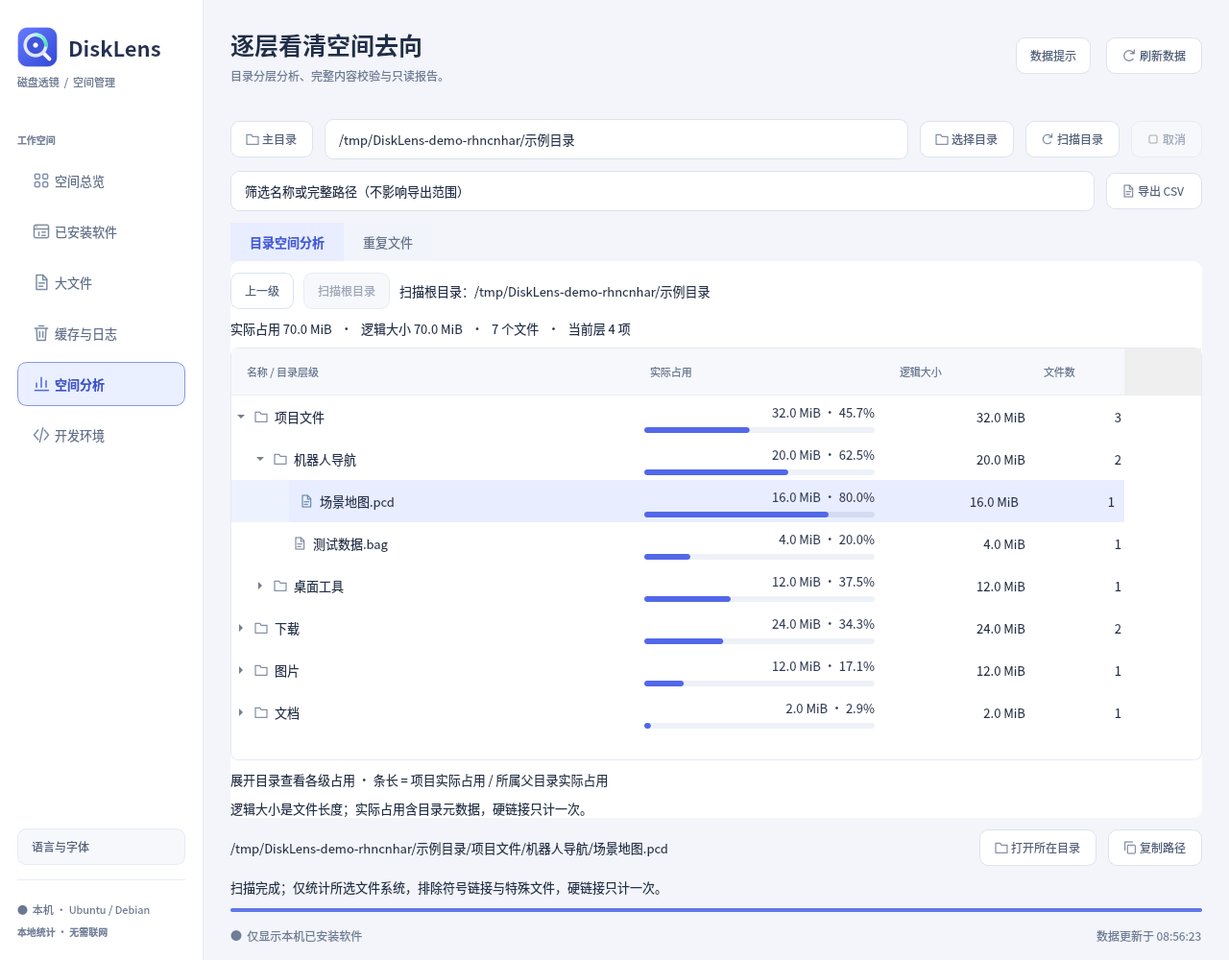
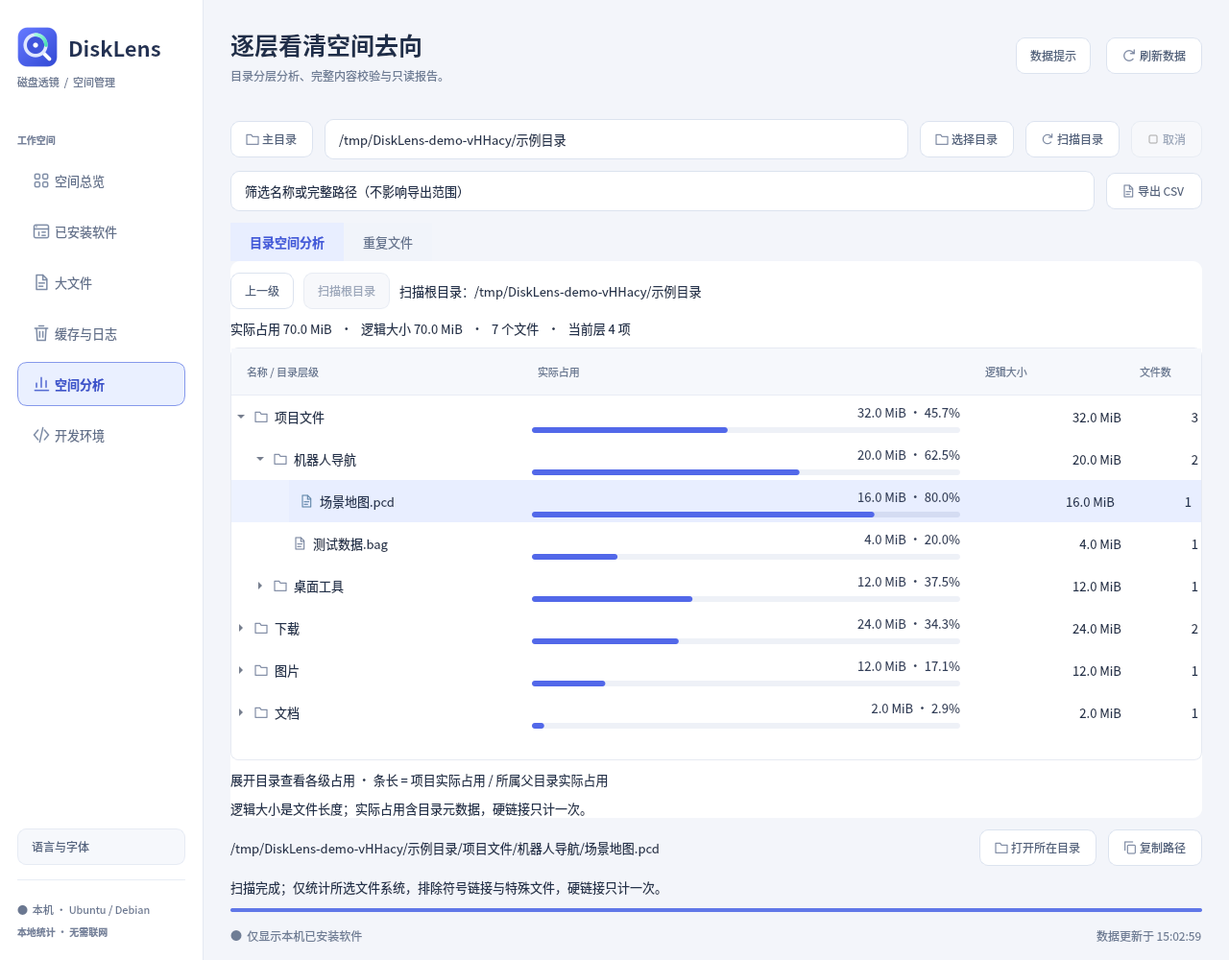
Release 1.5.1: fill space explorer width and fix Qt raster validation

diff --git a/src/explorerpage.cpp b/src/explorerpage.cpp
@@ -29,6 +29,7 @@
 #include <QTabWidget>
 #include <QTabBar>
 #include <QTemporaryFile>
+#include <QTimer>
 #include <QTreeWidget>
 #include <QUrl>
 #include <QVBoxLayout>
@@ -47,6 +48,80 @@ constexpr int populatedRole = Qt::UserRole + 2;
 constexpr int allocationShareRole = Qt::UserRole + 3;
 constexpr int allocatedBytesRole = Qt::UserRole + 4;
 constexpr int parentAllocatedBytesRole = Qt::UserRole + 5;
+
+class DirectoryTree final : public QTreeWidget {
+public:
+    DirectoryTree()
+    {
+        viewport()->installEventFilter(this);
+        connect(header(), &QHeaderView::sectionResized, this, [this] {
+            if (m_hasFitted && !m_adjusting && isVisible()) m_manuallySized = true;
+        });
+    }
+
+protected:
+    void showEvent(QShowEvent *event) override
+    {
+        QTreeWidget::showEvent(event);
+        fitColumns();
+    }
+
+    bool eventFilter(QObject *object, QEvent *event) override
+    {
+        if (object == viewport() && event->type() == QEvent::Resize && !m_pending) {
+            m_pending = true;
+            QTimer::singleShot(0, this, [this] { m_pending = false; fitColumns(); });
+        }
+        return QTreeWidget::eventFilter(object, event);
+    }
+
+private:
+    void fitColumns()
+    {
+        if (columnCount() != 4 || !isVisible()) return;
+        m_adjusting = true;
+        const int available = viewport()->width();
+        if (m_manuallySized) {
+            int occupied = 0;
+            for (int column = 0; column < 4; ++column) occupied += columnWidth(column);
+            // Retain manually widened hierarchy columns and horizontal scroll;
+            // give any unused room to the allocation bars.
+            if (occupied < available) setColumnWidth(1, columnWidth(1) + available - occupied);
+        } else {
+            const int minimum[] = {
+                qMax(260, fontMetrics().horizontalAdvance(QStringLiteral("directory-name-012345")) + 60),
+                qMax(220, fontMetrics().horizontalAdvance(QStringLiteral("999.9 GiB · 100.0%")) + 24),
+                qMax(130, header()->fontMetrics().horizontalAdvance(headerItem()->text(2)) + 24),
+                qMax(80, header()->fontMetrics().horizontalAdvance(headerItem()->text(3)) + 24)};
+            const double shares[] = {0.30, 0.46, 0.16, 0.08};
+            int widths[4], occupied = 0, minimumTotal = 0;
+            for (int column = 0; column < 4; ++column) {
+                widths[column] = qMax(minimum[column], int(available * shares[column]));
+                occupied += widths[column];
+                minimumTotal += minimum[column];
+            }
+            if (available < minimumTotal) {
+                for (int column = 0; column < 4; ++column) widths[column] = minimum[column];
+            } else if (occupied > available) {
+                // A clamped name/count column must not force scrolling when
+                // the other columns still have room above their minima.
+                int excess = occupied - available;
+                for (int column : {1, 0, 2, 3}) {
+                    const int reduction = qMin(excess, widths[column] - minimum[column]);
+                    widths[column] -= reduction; excess -= reduction;
+                }
+            } else if (occupied < available) widths[1] += available - occupied;
+            for (int column = 0; column < 4; ++column) setColumnWidth(column, widths[column]);
+        }
+        m_adjusting = false;
+        m_hasFitted = true;
+    }
+
+    bool m_adjusting = false;
+    bool m_manuallySized = false;
+    bool m_pending = false;
+    bool m_hasFitted = false;
+};
 
 // Paint in the view rather than creating a widget for each scanned entry. The
 // tree still owns selection, accessibility, scrolling and lazy child expansion.
@@ -361,16 +436,13 @@ void ExplorerPage::createUi()
     navigation->addWidget(m_up); navigation->addWidget(m_home); navigation->addWidget(m_breadcrumb, 1);
     directoryLayout->addLayout(navigation);
     m_metrics = label(dlTr("尚未扫描"), "explorerMetrics"); m_metrics->setWordWrap(true); directoryLayout->addWidget(m_metrics);
-    m_tree = new QTreeWidget; m_tree->setObjectName(QStringLiteral("explorerTree"));
+    m_tree = new DirectoryTree; m_tree->setObjectName(QStringLiteral("explorerTree"));
     m_tree->setHeaderLabels({dlTr("名称 / 目录层级"), dlTr("实际占用"), dlTr("逻辑大小"), dlTr("文件数")});
     styleTree(m_tree);
-    // Keep the hierarchy resizable: deep indentation may need a wider name
-    // column than the viewport can provide, using horizontal scrolling.
+    // Responsive widths fill the workspace; every column stays resizable for
+    // deep hierarchy names or unusually long totals.
     m_tree->header()->setStretchLastSection(false);
     m_tree->header()->setSectionResizeMode(QHeaderView::Interactive);
-    m_tree->setColumnWidth(0, 420);
-    m_tree->setColumnWidth(1, 260);
-    m_tree->setColumnWidth(2, 150); m_tree->setColumnWidth(3, 100);
     m_tree->setItemDelegateForColumn(1, new AllocationDelegate(m_tree));
     m_tree->setAccessibleName(dlTr("目录层级与实际占用"));
     m_tree->setToolTip(dlTr("展开目录即可比较各级实际占用；占用条表示项目占父目录的比例，搜索不改变比例。双击目录可进入；未完成统计的项目不显示精确比例。"));

diff --git a/tests/explorerpage_test.cpp b/tests/explorerpage_test.cpp
@@ -86,6 +86,7 @@ class ExplorerPageTest : public QObject {
 private slots:
     void directoryNavigationAndInlineBars();
     void expandedRowsUseParentAllocationAndSurviveFiltering();
+    void columnsFillWideWindowsAndRemainResizable();
     void duplicateScanIsExplicitAndFiltered();
     void reportEscapingAndPartialResults();
     void cancelAndWorkerLifetime();
@@ -174,6 +175,35 @@ void ExplorerPageTest::expandedRowsUseParentAllocationAndSurviveFiltering()
     QVERIFY(folderShare < 1.0);
     folder->setExpanded(true); QCOMPARE(folder->childCount(), 1);
     QCOMPARE(folder->child(0)->data(1, Qt::UserRole + 3).toDouble(), payloadShare);
+}
+
+void ExplorerPageTest::columnsFillWideWindowsAndRemainResizable()
+{
+    QTemporaryDir temporary; QVERIFY(temporary.isValid()); QVERIFY(fixture(temporary.path()));
+    ExplorerPage page; page.setRoot(temporary.path()); page.resize(1800, 760); page.show(); page.ensureScanStarted();
+    QTRY_VERIFY_WITH_TIMEOUT(page.isSettled(), 10000);
+    auto *tree = controls(page).tree; QVERIFY(tree);
+    const auto occupied = [tree] {
+        int total = 0;
+        for (int column = 0; column < 4; ++column) total += tree->columnWidth(column);
+        return total;
+    };
+    QTRY_VERIFY(qAbs(occupied() - tree->viewport()->width()) <= 2);
+    const int wideBar = tree->columnWidth(1);
+    QVERIFY(wideBar > 400);
+    page.resize(1000, 760);
+    QTRY_VERIFY(tree->columnWidth(1) < wideBar);
+    QTRY_VERIFY(qAbs(occupied() - tree->viewport()->width()) <= 2);
+    page.resize(800, 760);
+    QTRY_VERIFY(qAbs(occupied() - tree->viewport()->width()) <= 2);
+    page.hide(); page.resize(1400, 760); QCoreApplication::processEvents(); page.show();
+    QTRY_VERIFY(qAbs(occupied() - tree->viewport()->width()) <= 2);
+    page.resize(1800, 760);
+    QTRY_VERIFY(tree->columnWidth(1) >= wideBar - 2);
+    tree->setColumnWidth(0, 1200); // The same section resize signal as a header drag.
+    page.resize(2200, 760);
+    QTRY_VERIFY(occupied() >= tree->viewport()->width());
+    QCOMPARE(tree->columnWidth(0), 1200);
 }
 
 void ExplorerPageTest::parentScopeClearsFilterAndShowsAllSiblings()

diff --git a/tests/appearance_test.cpp b/tests/appearance_test.cpp
@@ -374,13 +374,22 @@ void AppearanceTest::explorerLargeFontLayout()
         const QImage cell=tree->viewport()->grab(bounds).toImage();
         QVERIFY(tree->columnWidth(1)>=tree->fontMetrics().horizontalAdvance(item->text(1))+20);
         int ink=0,blue=0,inkBottom=-1,blueTop=cell.height();
-        for(int y=0;y<cell.height();++y) for(int x=0;x<cell.width();++x) {
-            const QColor pixel=cell.pixelColor(x,y);
-            if(pixel.red()<100 && pixel.green()<125 && pixel.blue()<170) { ++ink; inkBottom=qMax(inkBottom,y); }
-            if(pixel.blue()>pixel.red()+50 && pixel.blue()>pixel.green()+30) { ++blue; blueTop=qMin(blueTop,y); }
+        for(int y=0;y<cell.height();++y) {
+            int blueRun=0;
+            for(int x=0;x<cell.width();++x) {
+                const QColor pixel=cell.pixelColor(x,y);
+                if(pixel.red()<100 && pixel.green()<125 && pixel.blue()<170) { ++ink; inkBottom=qMax(inkBottom,y); }
+                if(pixel.blue()>pixel.red()+50 && pixel.blue()>pixel.green()+30) {
+                    ++blue; ++blueRun;
+                    // Newer Qt/fontconfig can give text blue subpixel fringes.
+                    // A bar has a continuous fill; isolated glyph pixels do not.
+                    if(blueRun>=6) blueTop=qMin(blueTop,y);
+                } else blueRun=0;
+            }
         }
         QVERIFY(ink>30);
         QVERIFY(blue>10);
+        QVERIFY(blueTop<cell.height());
         QVERIFY2(inkBottom<blueTop,"Large-font allocation text must fit above the inline bar.");
     }
     tree->setCurrentItem(tree->topLevelItem(0));

diff --git a/docs/validation.md b/docs/validation.md
@@ -1,14 +1,24 @@
 # Validation scope / 验证范围
 
-## Version 1.5.0 / 版本 1.5.0
+## Version 1.5.1 / 版本 1.5.1
+
+On 2026-10-30, the final responsive layout passed all 13 CTest targets and 28 production read-only smoke checks (seven pages × English/Chinese × 13/18 px). Width checks cover 800–2200 px windows, shrink/grow cycles, hidden-page resizing and manually widened hierarchy columns. The allocation bars use the remaining horizontal room instead of leaving an empty area to the right. Chinese 13 px and English/Chinese 18 px production screenshots were reviewed.
+
+The Ubuntu 24.04 / Qt 5.15.13 isolated regression loop first reproduced the exact v1.5.0 CI failure. Glyph antialiasing produced isolated blue pixels at y14, while actual text ended at y27 and the bar began at y40. Detecting a continuous horizontal fill preserves the overlap check and eliminates that false positive. The fixed check passed on both Qt 5.15.3 and 5.15.13. A fresh Ubuntu 22.04 amd64 DEB passed all tests plus metadata, ELF, dependencies, desktop/icon assets, checksums and version validation. All 546 translations and placeholders passed. These automated/offscreen checks do not establish physical desktop or GPU behavior.
+
+2026-10-30，最终自适应布局通过全部 13 个 CTest 目标，以及七类页面 × 中英文 × 13/18 px 共 28 组正式程序只读检查。列宽检查覆盖 800–2200 px 窗口、缩小后再放大、隐藏页面调整尺寸，以及手动加宽目录名称列；占用条利用剩余横向空间，避免右侧出现空白区域。已核对中文 13 px 和中英文 18 px 的正式界面截图。
+
+隔离 Ubuntu 24.04 / Qt 5.15.13 环境首先复现了 v1.5.0 CI 的同一失败：文字抗锯齿在 y14 产生零散蓝色像素，实际文字止于 y27，占用条从 y40 开始。改为识别连续横向填充后，保留重叠检查并消除误判；修正后的检查在 Qt 5.15.3 与 5.15.13 均通过。全新 Ubuntu 22.04 amd64 DEB 通过全部测试，以及元数据、ELF、依赖、桌面/图标资源、校验与版本检查；546 条翻译及占位符检查通过。上述自动化及离屏检查不代表实体桌面或 GPU 行为。
+
+## Version 1.5.0 — unpublished / 版本 1.5.0 — 未发布
 
 On 2026-10-30, a fresh Ubuntu 22.04 amd64 / Qt 5.15.3 release build passed all 13 CTest targets. The merged-tree regressions cover expanded child allocation bars, immediate-parent denominators, unchanged ratios under search, entries beyond the former eight-row chart limit, partial/pending/excluded states, selected text contrast and large-font text/bar separation. The generated `disklens_1.5.0_ubuntu22.04_amd64.deb` passed metadata, ELF, dependencies, desktop/icon assets, checksums and `--version` verification.
 
-The final production executable passed 28 read-only smoke checks: all seven pages × English/Chinese × 13/18 px, with disposable scan/cache/state/config directories. Expanded-directory screenshots were reviewed in Chinese at 13 px and English/Chinese at 18 px; the README Space Analysis screenshot was refreshed. All 546 translations and placeholders passed validation. These are automated/offscreen checks and do not establish physical desktop or GPU behavior. Remote release results are recorded only after the exact tag's workflow completes.
+The final production executable passed 28 read-only smoke checks: all seven pages × English/Chinese × 13/18 px, with disposable scan/cache/state/config directories. Expanded-directory screenshots were reviewed in Chinese at 13 px and English/Chinese at 18 px; the README Space Analysis screenshot was refreshed. All 546 translations and placeholders passed validation. These are automated/offscreen checks and do not establish physical desktop or GPU behavior. The [v1.5.0 tag workflow](https://github.com/broruan/DiskLens/actions/runs/40982830761) stopped at a large-font raster assertion on Ubuntu 24.04/26.04; no Release was published. An isolated Ubuntu 24.04 / Qt 5.15.13 reproduction showed blue text-antialiasing fringes mistaken for the bar, while the text and bar had a clear gap.
 
 2026-10-30，Ubuntu 22.04 amd64 / Qt 5.15.3 全新发布构建通过全部 13 个 CTest 目标。合并目录树的回归检查覆盖展开后的子项占用条、直属父目录分母、搜索后占比保持不变、超过原图表前八项的条目、不完整/待统计/排除项状态、选中行文字对比度及大字号文字与占用条分离。生成的 `disklens_1.5.0_ubuntu22.04_amd64.deb` 通过元数据、ELF、依赖、桌面/图标资源、校验及版本检查。
 
-最终正式程序使用临时扫描、缓存、状态与配置目录，通过七类页面 × 中英文 × 13/18 px 共 28 组只读界面检查。已核对中文 13 px 及中英文 18 px 的展开目录截图，并更新 README 空间分析截图；546 条翻译与占位符检查通过。上述自动化和离屏结果不代表实体桌面或 GPU 行为；远程发布结果仅在对应标签的工作流完成后记录。
+最终正式程序使用临时扫描、缓存、状态与配置目录，通过七类页面 × 中英文 × 13/18 px 共 28 组只读界面检查。已核对中文 13 px 及中英文 18 px 的展开目录截图，并更新 README 空间分析截图；546 条翻译与占位符检查通过。上述自动化和离屏结果不代表实体桌面或 GPU 行为；[v1.5.0 标签构建](https://github.com/broruan/DiskLens/actions/runs/40982830761) 在 Ubuntu 24.04/26.04 的大字号像素断言处停止，未发布 Release。隔离 Ubuntu 24.04 / Qt 5.15.13 环境复现确认：文字与条形间距清楚，失败来自测试将文字抗锯齿蓝边误识别为占用条。
 
 ## Version 1.4.1 / 版本 1.4.1
 

diff --git a/docs/releases/v1.5.1.md b/docs/releases/v1.5.1.md
@@ -1,0 +1,51 @@
+# DiskLens 1.5.1
+
+[English](#english) · [简体中文](#简体中文)
+
+## English
+
+See allocated disk space while expanding the directory hierarchy in Space explorer.
+
+- **One expandable view:** directory names, allocated-space bars and sizes share the same rows. Expanding a directory reveals its children with their own usage bars; logical sizes and file counts remain available.
+- **Responsive columns:** the tree distributes its columns across the available width, avoiding an unused strip in wider windows while retaining manual resizing.
+- **Every visible entry:** the full-width tree replaces the separate chart of the largest eight entries. Directory expansion, double-click navigation, Home folder, parent/root controls, search and CSV export remain available.
+- **Clear percentages:** each entry's share uses its immediate parent's allocated bytes. Search does not renormalize the remaining rows. Directory metadata also uses blocks, so child percentages need not add up to 100%.
+- **Honest incomplete results:** pending, partial and excluded-entry states stay visible. Exact percentages are omitted when the entry or its parent has incomplete measurements.
+
+### Install or update
+
+Choose the DEB matching **Ubuntu 22.04 / 24.04 / 26.04** and **amd64 / arm64**. For Ubuntu 22.04 on Intel/AMD x86-64:
+
+```bash
+sha256sum --ignore-missing --check SHA256SUMS
+sudo apt install ./disklens_1.5.1_ubuntu22.04_amd64.deb
+```
+
+The release workflow runs tests, package validation and read-only UI checks on all six native targets before publishing six DEBs and `SHA256SUMS`. See the exact tag's workflow run and validation record for observed results. Automated/offscreen checks do not establish physical desktop or GPU behavior.
+
+[Analysis guide](https://github.com/broruan/DiskLens/blob/v1.5.1/docs/analysis-tools.md) · [Validation](https://github.com/broruan/DiskLens/blob/v1.5.1/docs/validation.md) · [Release workflow](https://github.com/broruan/DiskLens/actions/workflows/build.yml)
+
+---
+
+## 简体中文
+
+空间分析将实际占用进度条合并到目录层级中，展开目录的同时即可查看子项的磁盘使用量。
+
+- **同一棵可展开目录树：** 名称、实际占用进度条与大小放在同一行，展开目录后各子项也直接显示占用；逻辑大小与文件数继续保留。
+- **随窗口分配列宽：** 目录树各列利用可用宽度，避免宽窗口出现空白区域，同时保留手动调宽。
+- **不再受独立图表前八项限制：** 统一目录树占满内容区，保留按需展开、双击进入、主目录、上一级/根目录导航、搜索及 CSV 导出。
+- **明确占比口径：** 每项以直属父目录的实际占用为分母，搜索后不重新归一化；目录自身元数据也占空间，因此子项占比不一定合计为 100%。
+- **保留不完整统计状态：** 待统计、部分统计及排除项继续明确标注；条目或父目录尚未完整统计时，不显示精确百分比。
+
+### 安装或更新
+
+提供 **Ubuntu 22.04 / 24.04 / 26.04 × amd64 / arm64** 六种安装包，请同时匹配系统版本和架构。以 Ubuntu 22.04 的 Intel/AMD x86-64 为例：
+
+```bash
+sha256sum --ignore-missing --check SHA256SUMS
+sudo apt install ./disklens_1.5.1_ubuntu22.04_amd64.deb
+```
+
+发布流水线在六个原生目标上运行测试、安装包验证及只读界面检查后，发布六个 DEB 与 `SHA256SUMS`；实际结果以对应标签的工作流与验证记录为准。自动化和离屏检查不代表实体桌面或 GPU 行为验证。
+
+[空间分析指南](https://github.com/broruan/DiskLens/blob/v1.5.1/docs/analysis-tools.md) · [验证范围](https://github.com/broruan/DiskLens/blob/v1.5.1/docs/validation.md) · [发布流水线](https://github.com/broruan/DiskLens/actions/workflows/build.yml)

diff --git a/docs/building.md b/docs/building.md
@@ -73,11 +73,11 @@ The script builds in a fresh temporary directory, runs tests, creates and valida
 bash packaging/build-deb.sh --qt-major 5 --jobs 2 --output-dir /tmp/disklens-packages
 ```
 
-Names include version, Ubuntu release, and Debian architecture, for example `disklens_1.5.0_ubuntu24.04_arm64.deb`. The script discovers shared-library dependencies with `dpkg-shlibdeps` and adds runtime integrations such as the matching SVG plugin, `pkexec`, and `xdg-utils`. This allows the package metadata to follow each Ubuntu release's actual library names, including `t64` transitions.
+Names include version, Ubuntu release, and Debian architecture, for example `disklens_1.5.1_ubuntu24.04_arm64.deb`. The script discovers shared-library dependencies with `dpkg-shlibdeps` and adds runtime integrations such as the matching SVG plugin, `pkexec`, and `xdg-utils`. This allows the package metadata to follow each Ubuntu release's actual library names, including `t64` transitions.
 
 ### Release automation
 
-[`.github/workflows/build.yml`](../.github/workflows/build.yml) defines native Ubuntu 22.04 / 24.04 / 26.04 jobs for `amd64` and `arm64`. A version tag such as `v1.5.0` triggers the release workflow. All matrix jobs must succeed before the release job gathers six packages and publishes them with `SHA256SUMS`. Check the workflow attached to the tag before stating that a platform passed.
+[`.github/workflows/build.yml`](../.github/workflows/build.yml) defines native Ubuntu 22.04 / 24.04 / 26.04 jobs for `amd64` and `arm64`. A version tag such as `v1.5.1` triggers the release workflow. All matrix jobs must succeed before the release job gathers six packages and publishes them with `SHA256SUMS`. Check the workflow attached to the tag before stating that a platform passed.
 
 ## 简体中文
 
@@ -130,8 +130,8 @@ bash packaging/build-deb.sh --qt-major 5 --jobs 2
 
 脚本在全新临时目录构建、运行测试、生成并检查安装包，默认输出至 `dist/`，不会安装软件。通过 `--output-dir /tmp/disklens-packages` 可指定其他目录。
 
-包名包含版本、Ubuntu 版本与 Debian 架构，例如 `disklens_1.5.0_ubuntu24.04_arm64.deb`。依赖通过 `dpkg-shlibdeps` 根据实际链接库生成，并补充对应 SVG 插件、`pkexec` 与 `xdg-utils`，可跟随不同 Ubuntu 版本的库命名及 `t64` 变化。
+包名包含版本、Ubuntu 版本与 Debian 架构，例如 `disklens_1.5.1_ubuntu24.04_arm64.deb`。依赖通过 `dpkg-shlibdeps` 根据实际链接库生成，并补充对应 SVG 插件、`pkexec` 与 `xdg-utils`，可跟随不同 Ubuntu 版本的库命名及 `t64` 变化。
 
 ### 发布流水线
 
-[`.github/workflows/build.yml`](../.github/workflows/build.yml) 定义 Ubuntu 22.04 / 24.04 / 26.04 的 `amd64`、`arm64` 原生构建任务。推送 `v1.5.0` 形式的版本标签后触发发布；全部矩阵任务成功后，发布任务汇总六个安装包并附带 `SHA256SUMS`。只有对应标签的实际工作流结果才能证明某个平台已经通过。
+[`.github/workflows/build.yml`](../.github/workflows/build.yml) 定义 Ubuntu 22.04 / 24.04 / 26.04 的 `amd64`、`arm64` 原生构建任务。推送 `v1.5.1` 形式的版本标签后触发发布；全部矩阵任务成功后，发布任务汇总六个安装包并附带 `SHA256SUMS`。只有对应标签的实际工作流结果才能证明某个平台已经通过。

diff --git a/README.md b/README.md
@@ -23,7 +23,7 @@
 
 DiskLens is a Qt Widgets desktop application written in C++17. It reads your machine's filesystem and package-manager data locally. **Switch between English and Simplified Chinese in the application and adjust the interface font size.** Project documentation is also available in both languages. Screenshots show the real application with example scan data; installed-package information is read from the machine used to capture them.
 
-**New in 1.5:** Space explorer combines directory names, allocated-space bars, sizes and percentages in one expandable tree. Open a folder to compare its children without switching between a hierarchy and a separate chart. Percentages use the immediate parent and remain stable under search; incomplete measurements keep their status. The light workspace and keyboard navigation (`Ctrl+F`, `Alt+1`–`Alt+6`, `F5`) introduced in 1.4 remain available. See [analysis tools](docs/analysis-tools.md) and [validation](docs/validation.md).
+**New in 1.5:** Space explorer combines directory names, allocated-space bars, sizes and percentages in one expandable tree. Open a folder to compare its children without switching between a hierarchy and a separate chart. Percentages use the immediate parent and remain stable under search; incomplete measurements keep their status. Version 1.5.1 distributes tree columns across the available width while keeping them manually resizable. The light workspace and keyboard navigation (`Ctrl+F`, `Alt+1`–`Alt+6`, `F5`) introduced in 1.4 remain available. See [analysis tools](docs/analysis-tools.md) and [validation](docs/validation.md).
 
 ## Why DiskLens
 
@@ -61,9 +61,9 @@ The release pipeline targets these **64-bit** Ubuntu combinations, with a separa
 
 | Ubuntu | x86-64 / Intel & AMD (`amd64`) | ARM64 / AArch64 (`arm64`) |
 | --- | --- | --- |
-| 22.04 | `disklens_1.5.0_ubuntu22.04_amd64.deb` | `disklens_1.5.0_ubuntu22.04_arm64.deb` |
-| 24.04 | `disklens_1.5.0_ubuntu24.04_amd64.deb` | `disklens_1.5.0_ubuntu24.04_arm64.deb` |
-| 26.04 | `disklens_1.5.0_ubuntu26.04_amd64.deb` | `disklens_1.5.0_ubuntu26.04_arm64.deb` |
+| 22.04 | `disklens_1.5.1_ubuntu22.04_amd64.deb` | `disklens_1.5.1_ubuntu22.04_arm64.deb` |
+| 24.04 | `disklens_1.5.1_ubuntu24.04_amd64.deb` | `disklens_1.5.1_ubuntu24.04_arm64.deb` |
+| 26.04 | `disklens_1.5.1_ubuntu26.04_amd64.deb` | `disklens_1.5.1_ubuntu26.04_arm64.deb` |
 
 Use the package matching **both** your Ubuntu release and CPU architecture. `x86_64` maps to Debian's `amd64`; `aarch64` maps to `arm64`. 32-bit x86 and ARM packages are not provided. Other distributions are outside the packaged support matrix.
 
@@ -79,7 +79,7 @@ Download the matching package from [Releases](https://github.com/broruan/DiskLen
 
 ```bash
 cd ~/Downloads
-sudo apt install ./disklens_1.5.0_ubuntu24.04_amd64.deb
+sudo apt install ./disklens_1.5.1_ubuntu24.04_amd64.deb
 disklens
 ```
 

diff --git a/README.zh-CN.md b/README.zh-CN.md
@@ -23,7 +23,7 @@
 
 磁盘透镜是一款使用 **Qt Widgets 与 C++17** 编写的桌面磁盘空间管理应用，直接读取本机文件系统和软件包信息。**应用内可切换简体中文与 English，并调整界面字体大小**；项目文档也提供独立的中英双语版本。截图来自真实程序，扫描目录使用示例数据，已安装软件信息来自截图环境的实际读取。
 
-**1.5 新功能：** 空间分析将目录名称、实际占用进度条、大小与占比合并到同一棵目录树，展开文件夹即可对比子项。占比以直属父目录为分母，搜索后不重新归一化；统计不完整时保留状态提示。继续支持 1.4 引入的浅色工作区与 `Ctrl+F`、`Alt+1`–`Alt+6`、`F5` 快捷操作。详见[分析工具指南](docs/analysis-tools.md)与[验证记录](docs/validation.md)。
+**1.5 新功能：** 空间分析将目录名称、实际占用进度条、大小与占比合并到同一棵目录树，展开文件夹即可对比子项。占比以直属父目录为分母，搜索后不重新归一化；统计不完整时保留状态提示。1.5.1 让目录树各列随可用宽度分配，并保留手动调宽。继续支持 1.4 引入的浅色工作区与 `Ctrl+F`、`Alt+1`–`Alt+6`、`F5` 快捷操作。详见[分析工具指南](docs/analysis-tools.md)与[验证记录](docs/validation.md)。
 
 ## 为什么选择磁盘透镜
 
@@ -61,9 +61,9 @@
 
 | Ubuntu | x86-64 / Intel 与 AMD（`amd64`） | ARM64 / AArch64（`arm64`） |
 | --- | --- | --- |
-| 22.04 | `disklens_1.5.0_ubuntu22.04_amd64.deb` | `disklens_1.5.0_ubuntu22.04_arm64.deb` |
-| 24.04 | `disklens_1.5.0_ubuntu24.04_amd64.deb` | `disklens_1.5.0_ubuntu24.04_arm64.deb` |
-| 26.04 | `disklens_1.5.0_ubuntu26.04_amd64.deb` | `disklens_1.5.0_ubuntu26.04_arm64.deb` |
+| 22.04 | `disklens_1.5.1_ubuntu22.04_amd64.deb` | `disklens_1.5.1_ubuntu22.04_arm64.deb` |
+| 24.04 | `disklens_1.5.1_ubuntu24.04_amd64.deb` | `disklens_1.5.1_ubuntu24.04_arm64.deb` |
+| 26.04 | `disklens_1.5.1_ubuntu26.04_amd64.deb` | `disklens_1.5.1_ubuntu26.04_arm64.deb` |
 
 请同时匹配 **Ubuntu 版本与 CPU 架构**。`x86_64` 在 Debian 包中称为 `amd64`，`aarch64` 对应 `arm64`。不提供 32 位 x86 / ARM 安装包，其他 Linux 发行版不在预编译包支持矩阵内。
 
@@ -79,7 +79,7 @@ dpkg --print-architecture
 
 ```bash
 cd ~/Downloads
-sudo apt install ./disklens_1.5.0_ubuntu24.04_amd64.deb
+sudo apt install ./disklens_1.5.1_ubuntu24.04_amd64.deb
 disklens
 ```
 

diff --git a/docs/analysis-tools.md b/docs/analysis-tools.md
@@ -1,8 +1,8 @@
 # 空间分析与开发环境指南 / Analysis tools guide
 
-适用于 DiskLens 1.5.0。「空间分析」「开发环境」和「软件空间画像」均为只读分析：可以查看、打开目录和复制路径；空间分析与开发环境还支持导出报告。这些页面不提供删除按钮，也不会执行构建、卸载或缓存清理命令。
+适用于 DiskLens 1.5.1。「空间分析」「开发环境」和「软件空间画像」均为只读分析：可以查看、打开目录和复制路径；空间分析与开发环境还支持导出报告。这些页面不提供删除按钮，也不会执行构建、卸载或缓存清理命令。
 
-For DiskLens 1.5.0. **Space Analysis**, **Developer Environment**, and **Application Storage Profile** are read-only tools. They inspect storage, open directories, and copy paths. Space Analysis and Developer Environment also export reports. These pages do not delete files or run build, uninstall, or cache-cleaning commands.
+For DiskLens 1.5.1. **Space Analysis**, **Developer Environment**, and **Application Storage Profile** are read-only tools. They inspect storage, open directories, and copy paths. Space Analysis and Developer Environment also export reports. These pages do not delete files or run build, uninstall, or cache-cleaning commands.
 
 ## 1. 从目录开始 / Start with a directory
 

diff --git a/CHANGELOG.md b/CHANGELOG.md
@@ -1,6 +1,22 @@
 # Changelog / 更新记录
 
-## 1.5.0 — 2026-10-30
+## 1.5.1 — 2026-10-30
+
+### English
+
+- Carry forward the integrated directory hierarchy and allocated-space bars, with parent-relative percentages on expanded child rows.
+- Distribute tree columns across the available width to avoid an unused strip in wider windows; retain manual column resizing.
+- Distinguish continuous bar fills from blue text-antialiasing fringes in large-font rendering checks across Qt versions.
+- Follow the unpublished v1.5.0 tag: its release workflow stopped at a large-font raster assertion on Ubuntu 24.04/26.04 and did not publish a GitHub Release or release download assets.
+
+### 简体中文
+
+- 延续目录层级与实际占用进度条合并的功能，在展开后的子项行中显示大小与父目录占比。
+- 目录树各列随可用宽度分配，避免宽窗口出现空白区域，并保留手动调宽。
+- 大字号渲染检查通过连续填充识别占用条，避免将不同 Qt 版本的文字抗锯齿蓝边误判为占用条。
+- 承接未发布的 v1.5.0 标签：其发布流水线在 Ubuntu 24.04/26.04 的大字号像素断言处停止，没有发布 GitHub Release 或下载附件。
+
+## 1.5.0 — 2026-10-30 (unpublished / 未发布)
 
 ### English
 
